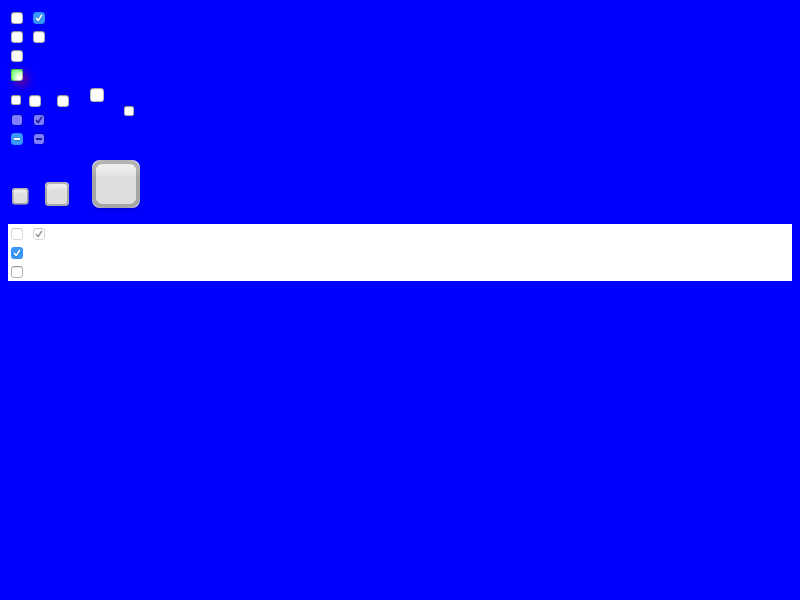
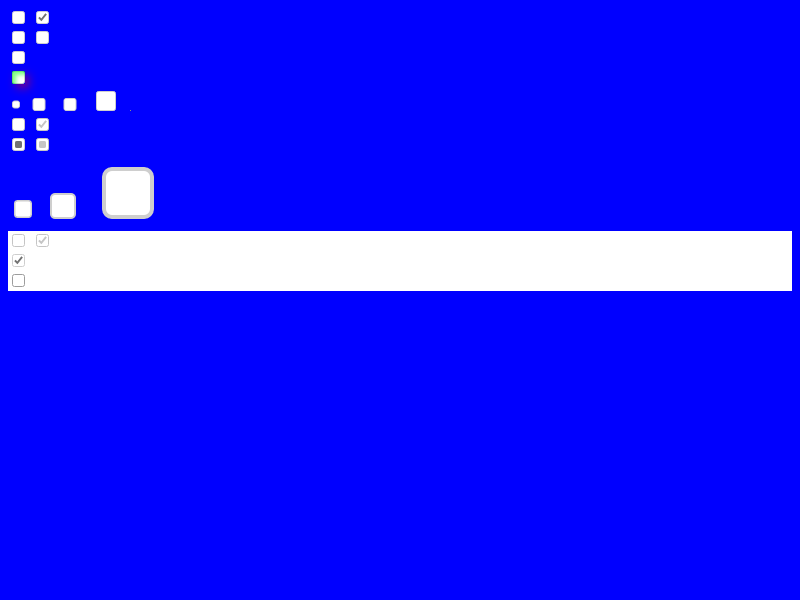
Make macOS respect FormControlsRefresh feature
The FormControlsRefresh feature will make macOS use the Aura theme (and
the refresh theme, where it is implemented).

Add a runtime feature, FormControlsRefresh, to control this in blink.

Update and dedupe tests.

TBR=pbr,avi

Bug: 846357, 956778
Commit-Queue: ccameron <ccameron@chromium.org>
Cr-Commit-Position: refs/heads/master@{#660605}

Changed region(s): [[0.0, 0.24, 1.0, 0.51], [0.0, 0.0, 0.1875, 0.27]]

diff --git a/renderer/core/layout/layout_theme_mac.mm b/renderer/core/layout/layout_theme_mac.mm
@@ -32,6 +32,7 @@
 #import "third_party/blink/renderer/core/fileapi/file_list.h"
 #import "third_party/blink/renderer/core/html_names.h"
 #import "third_party/blink/renderer/core/layout/layout_progress.h"
+#import "third_party/blink/renderer/core/layout/layout_theme_default.h"
 #import "third_party/blink/renderer/core/layout/layout_view.h"
 #import "third_party/blink/renderer/core/style/shadow_list.h"
 #import "third_party/blink/renderer/platform/data_resource_helper.h"
@@ -137,6 +138,13 @@
 namespace blink {
 
 namespace {
+
+class LayoutThemeMacRefresh final : public LayoutThemeDefault {
+ public:
+  static scoped_refptr<LayoutTheme> Create() {
+    return base::AdoptRef(new LayoutThemeMacRefresh());
+  }
+};
 
 // Inflate an IntRect to account for specific padding around margins.
 enum { kTopMargin = 0, kRightMargin = 1, kBottomMargin = 2, kLeftMargin = 3 };
@@ -1011,8 +1019,14 @@ NSView* FlippedView() {
 }
 
 LayoutTheme& LayoutTheme::NativeTheme() {
-  DEFINE_STATIC_REF(LayoutTheme, layout_theme, (LayoutThemeMac::Create()));
-  return *layout_theme;
+  if (RuntimeEnabledFeatures::FormControlsRefreshEnabled()) {
+    DEFINE_STATIC_REF(LayoutTheme, layout_theme,
+                      (LayoutThemeMacRefresh::Create()));
+    return *layout_theme;
+  } else {
+    DEFINE_STATIC_REF(LayoutTheme, layout_theme, (LayoutThemeMac::Create()));
+    return *layout_theme;
+  }
 }
 
 scoped_refptr<LayoutTheme> LayoutThemeMac::Create() {

diff --git a/public/platform/web_runtime_features.h b/public/platform/web_runtime_features.h
@@ -103,6 +103,7 @@ class WebRuntimeFeatures {
   BLINK_PLATFORM_EXPORT static void EnableFirstContentfulPaintPlusPlus(bool);
   BLINK_PLATFORM_EXPORT static void EnableForceSynchronousHTMLParsing(bool);
   BLINK_PLATFORM_EXPORT static void EnableForceTallerSelectPopup(bool);
+  BLINK_PLATFORM_EXPORT static void EnableFormControlsRefresh(bool);
   BLINK_PLATFORM_EXPORT static void EnableGenericSensor(bool);
   BLINK_PLATFORM_EXPORT static void EnableGenericSensorExtraClasses(bool);
   BLINK_PLATFORM_EXPORT static void EnableHeapCompaction(bool);

diff --git a/renderer/platform/exported/web_runtime_features.cc b/renderer/platform/exported/web_runtime_features.cc
@@ -188,6 +188,10 @@ void WebRuntimeFeatures::EnableForceTallerSelectPopup(bool enable) {
   RuntimeEnabledFeatures::SetForceTallerSelectPopupEnabled(enable);
 }
 
+void WebRuntimeFeatures::EnableFormControlsRefresh(bool enable) {
+  RuntimeEnabledFeatures::SetFormControlsRefreshEnabled(enable);
+}
+
 void WebRuntimeFeatures::EnableGenericSensor(bool enable) {
   RuntimeEnabledFeatures::SetSensorEnabled(enable);
 }
